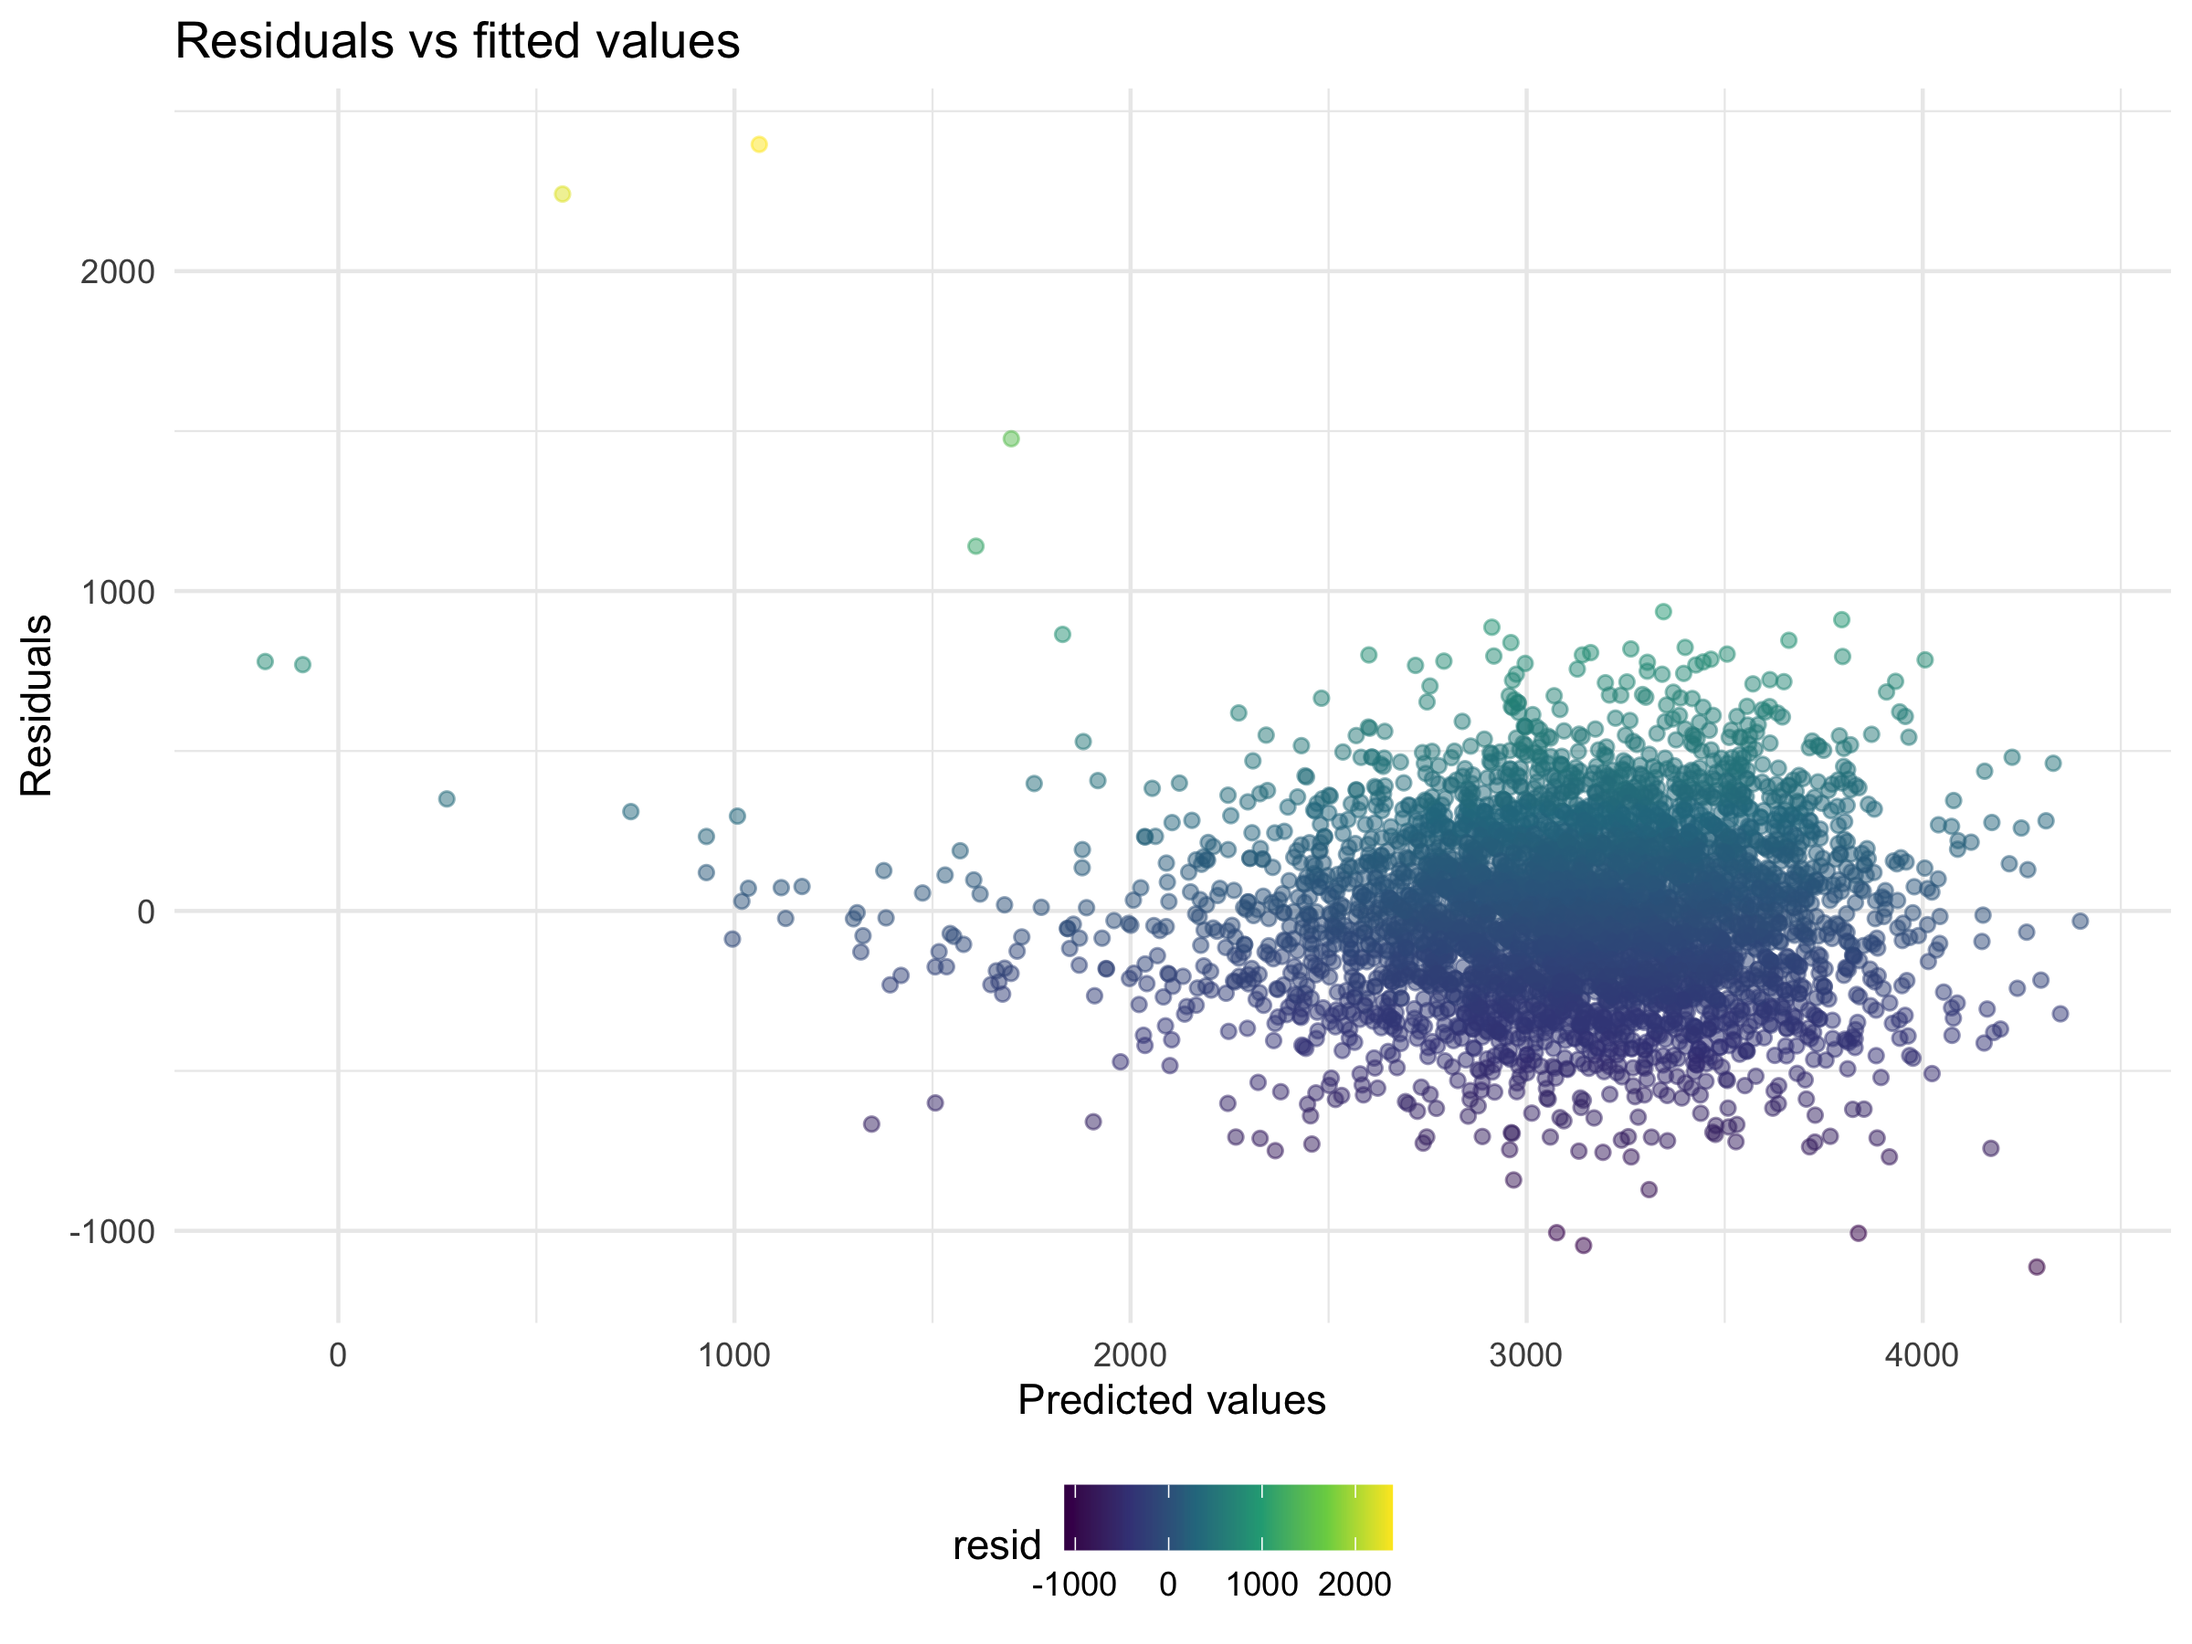
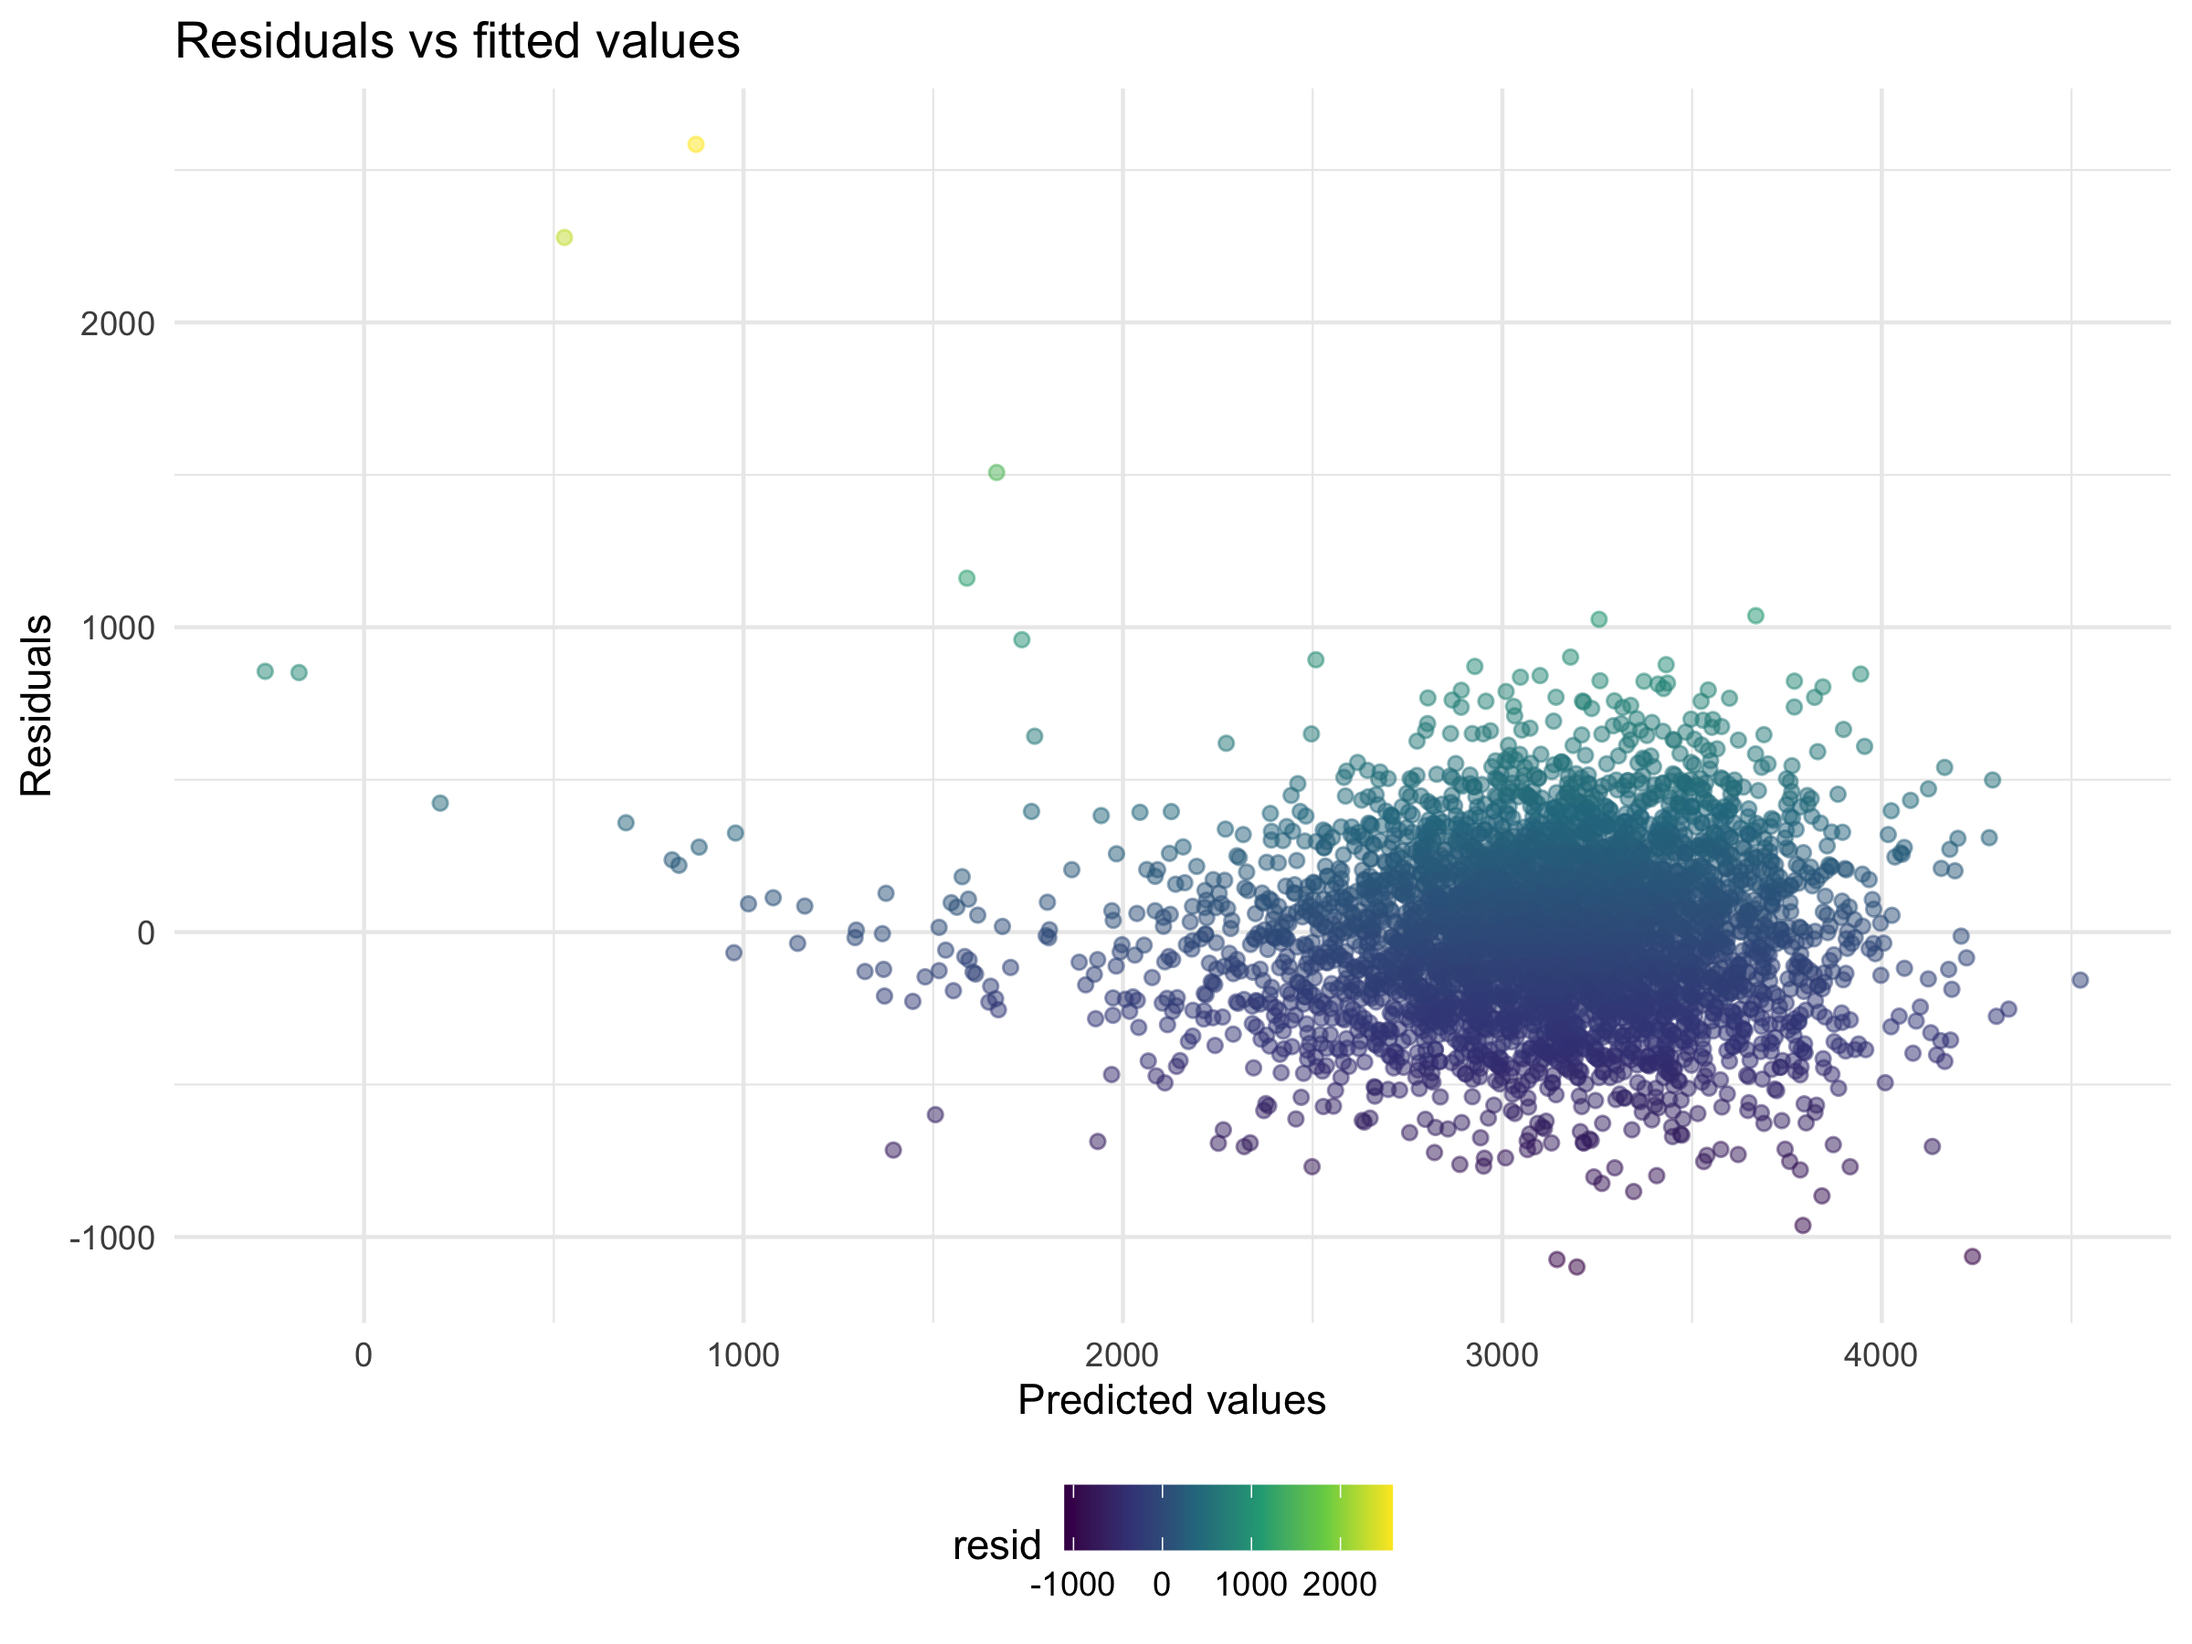
bootstrap

diff --git a/p8105_hw6_hw2849.md b/p8105_hw6_hw2849.md
@@ -55,47 +55,36 @@ included in the data set.
 
 ##### Regression Models
 
-Evidences have shown biological and environmental behaviors of parents
-are associated with infant birth weight. We hypothesized parents’ races,
-family incomes, pre-pregnancy weight and BMI, mothers’ weight change
-during pregnancy, and smoking behavior would be factors that affect
-infant birth weight. In addition, we look at baby’s birth length and
-head circumference which would be related to baby weight. Thus, building
-a model with predictors of `bhead`, `blength`, `fincome`, `frace`,
-`mrace`, `ppbmi`, `ppwt`, `smoken`, and `wtgain`, to see the
-associations of these variables with `bwt`.
+Evidences have shown social and environmental behaviors of parents are
+associated with infant birth weight. We hypothesized family incomes,
+pre-pregnancy weight and BMI, mothers’ weight change during pregnancy,
+and smoking behavior would be factors that affect infant birth weight.
+In addition, we look at baby’s birth length and head circumference which
+would be related to baby weight. Thus, building a model with predictors
+of `bhead`, `blength`, `fincome`, `ppbmi`, `ppwt`, `smoken`, and
+`wtgain`, to see the associations of these variables with `bwt`.
 
 ``` r
-my_model = lm(bwt ~  bhead + blength + fincome +frace + mrace + ppbmi + ppwt + smoken + wtgain, data = birthweight) ## regression model 
+my_model = lm(bwt ~  bhead + blength + fincome + ppbmi + ppwt + smoken + wtgain, data = birthweight) ## regression model 
 
 my_model %>% ## tidy the regression model
   broom::tidy() %>% 
   select(term, estimate, p.value) %>% 
-  mutate(
-    term = str_replace(term, "^mrace", "mother race: ")
-    ) %>% 
   knitr::kable(digits = 3)
 ```
 
-| term                      |  estimate | p.value |
-|:--------------------------|----------:|--------:|
-| (Intercept)               | -5458.240 |   0.000 |
-| bhead                     |   134.465 |   0.000 |
-| blength                   |    77.336 |   0.000 |
-| fincome                   |     0.352 |   0.046 |
-| fraceBlack                |     9.495 |   0.838 |
-| fraceAsian                |    18.537 |   0.791 |
-| fracePuerto Rican         |   -53.834 |   0.232 |
-| fraceOther                |     6.616 |   0.929 |
-| mother race: Black        |  -155.351 |   0.001 |
-| mother race: Asian        |   -93.365 |   0.197 |
-| mother race: Puerto Rican |   -57.457 |   0.207 |
-| ppbmi                     |    -9.064 |   0.000 |
-| ppwt                      |     3.036 |   0.000 |
-| smoken                    |    -4.792 |   0.000 |
-| wtgain                    |     4.362 |   0.000 |
+| term        |  estimate | p.value |
+|:------------|----------:|--------:|
+| (Intercept) | -5859.137 |       0 |
+| bhead       |   139.247 |       0 |
+| blength     |    80.483 |       0 |
+| fincome     |     1.317 |       0 |
+| ppbmi       |   -11.329 |       0 |
+| ppwt        |     3.150 |       0 |
+| smoken      |    -2.468 |       0 |
+| wtgain      |     4.129 |       0 |
 
-Add residuals and predicted values to the model, and plot the model.
+Add fitted values to the model, and plot the model residuals.
 
 ``` r
 resid_pred_model = birthweight %>%  ## add residuals and predicted values
@@ -129,7 +118,7 @@ cv_df =
 
 cv_df = cv_df %>% 
   mutate(
-    my_model  = map(train, ~lm(bwt ~  bhead + blength + fincome +frace + mrace + ppbmi + ppwt + smoken + wtgain, data = .x)),
+    my_model  = map(train, ~lm(bwt ~  bhead + blength + fincome + ppbmi + ppwt + smoken + wtgain, data = .x)),
     model1  = map(train, ~lm(bwt ~ blength + gaweeks, data = .x)), ## length at birth and gestational age as predictors
     model2  = map(train, ~lm(bwt ~ bhead + blength + babysex + bhead * blength + bhead * babysex + blength * bhead + bhead * blength * babysex, data = .x))  ## head circumference, length, sex, and all interactions between these
   ) %>% 
@@ -161,5 +150,123 @@ cv_df %>%
 <img src="p8105_hw6_hw2849_files/figure-gfm/comparison-1.png" width="90%" />
 
 Comparing three models, we found that the model that we created
-`bwt ~  bhead + blength + fincome +frace + mrace + ppbmi + ppwt + smoken + wtgain`
-most accurately predicted the baby birthweight.
+`bwt ~  bhead + blength + fincome + ppbmi + ppwt + smoken + wtgain` most
+accurately predicted the baby birthweight.
+
+## Problem 2
+
+2017 Central Park weather data.
+
+``` r
+weather_df = 
+  rnoaa::meteo_pull_monitors(
+    c("USW00094728"),
+    var = c("PRCP", "TMIN", "TMAX"), 
+    date_min = "2017-01-01",
+    date_max = "2017-12-31") %>%
+  mutate(
+    name = recode(id, USW00094728 = "CentralPark_NY"),
+    tmin = tmin / 10,
+    tmax = tmax / 10) %>%
+  select(name, id, everything())
+```
+
+    ## Registered S3 method overwritten by 'hoardr':
+    ##   method           from
+    ##   print.cache_info httr
+
+    ## using cached file: ~/Library/Caches/R/noaa_ghcnd/USW00094728.dly
+
+    ## date created (size, mb): 2021-10-05 10:31:24 (7.602)
+
+    ## file min/max dates: 1869-01-01 / 2021-10-31
+
+##### Some bootstrapping
+
+``` r
+## estimate r square
+
+r_square = weather_df %>% 
+  bootstrap(n = 5000) %>% 
+  mutate(
+    models = map(strap, ~lm(tmax ~ tmin, data = .x)),
+    results = map(models, broom::glance)
+  ) %>% 
+  select(-strap, -models) %>% 
+  unnest(results) %>% 
+  select(r.squared)
+
+## plot the distribution for r square
+
+r_square_plot = r_square %>% 
+  ggplot(aes(x = r.squared, fill = r.squared)) + 
+  geom_density() + 
+  labs(
+    title = "Distribution of Estimate of r square",
+    x = "r square"
+  )
+```
+
+``` r
+## estimate log beta_0 * beta_1
+
+beta_estimate = weather_df %>% 
+  modelr::bootstrap(n = 5000) %>% 
+  mutate(
+    models = map(strap, ~lm(tmax ~ tmin, data = .x)),
+    results = map(models, broom::tidy)) %>% 
+  select(-strap, -models) %>% 
+  unnest(results) %>% 
+  select(term, estimate) %>% 
+  mutate(
+    term = recode(term, "(Intercept)" = "intercept")
+  ) %>% 
+  pivot_wider(
+    names_from = "term",
+    values_from = "estimate") %>% 
+  unnest() %>% 
+  mutate(
+    log_beta = log(intercept * tmin)
+  )
+
+## plot the distribution for log beta
+
+beta_plot = beta_estimate %>% 
+  ggplot(aes(x = log_beta, fill = log_beta)) + 
+  geom_density() + 
+  labs(
+    title = "Distribution of Estimate of log beta",
+    x = "log(beta_0 * beta_1)"
+  )
+
+r_square_plot + beta_plot
+```
+
+<img src="p8105_hw6_hw2849_files/figure-gfm/log beta estimate-1.png" width="90%" />
+
+With 5000 bootstrap samples for each estimate, we observed that the
+distribution of r square tends to be slightly left-skewed, and log(beta0
+\* beta1) is approximately normal.
+
+##### 95% confidence interval
+
+``` r
+## calculate the CI of r_square
+quantile(r_square$r.squared, c(0.025, 0.975)) 
+```
+
+    ##      2.5%     97.5% 
+    ## 0.8933706 0.9273907
+
+``` r
+## calculate the CI of log(beta0*beta1)
+quantile(beta_estimate$log_beta, c(0.025, 0.975))
+```
+
+    ##     2.5%    97.5% 
+    ## 1.965833 2.057778
+
+The 95% confident interval of *r̂*<sup>2</sup> is (0.8937, 0.9274).
+
+The 95% confident of *l**o**g*(*β̂*<sub>0</sub> \* *β̂*<sub>1</sub>) is
+(1.9645, 2.0596).
